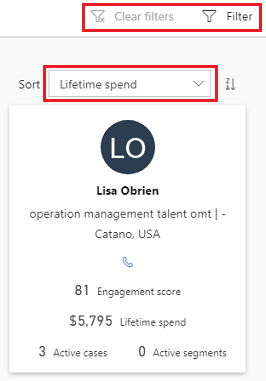
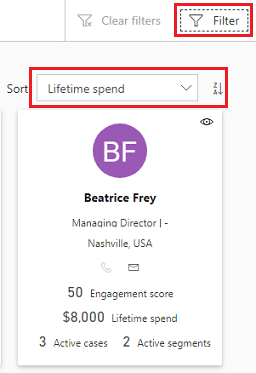
updates

diff --git a/ai-docs/customer-insights/quick-start.md b/ai-docs/customer-insights/quick-start.md
@@ -120,12 +120,12 @@ Select a scorecard to see details on the entities used.
 The Customers section contains information about your customers organized by Profiles and Segments.
 
 ### Profiles
-Once you've connected to a data source, AI for Customer Insights creates some customer profiles based on your industry type.
+Once you've connected to a data source, AI for Customer Insights creates some customer profiles and categories based on your industry type. 
 
 > [!div class="mx-imgBorder"] 
 > ![](media/customer-profiles75.png "Generated customer profiles")
 
-Select **View more** to see more customers sorted by the profile type. In this example, **Top paying** is the profile type.
+Select **See all** to see more customers sorted by the profile type. In this example, **Lifetime spend** is the profile type.
 
 > [!div class="mx-imgBorder"] 
 > ![](media/view-more-customers.png "View more customers")
@@ -135,12 +135,10 @@ You can use the customer profiles page to filter and sort the profiles.
 > [!div class="mx-imgBorder"] 
 > ![](media/filter-sort.png "Filter and sort customer profiles")
 
-What's in the sort list depends on the category you selected earlier and the profile type. This example is xyz category with **Top paying** as the profile type.
+What's in the sort list depends on the business category you selected earlier and the profile type. 
 
 > [!div class="mx-imgBorder"] 
 > ![](media/sort-list.png "Sort list")
-
-C360 analyzes and builds unified customer profilesShow how Customer360 “automagically” (ML algos + incremental learning from what user has taught the system) does identity conflation and maps customer data streams into customer profiles in CDS-A
 
 ### Segments
 Content
